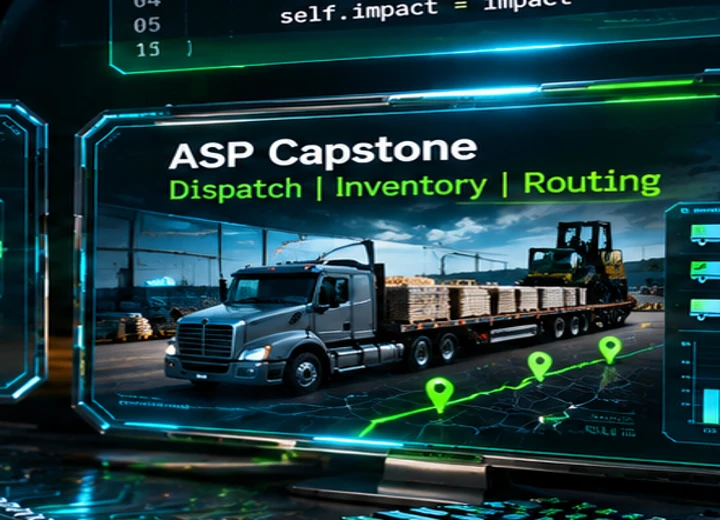
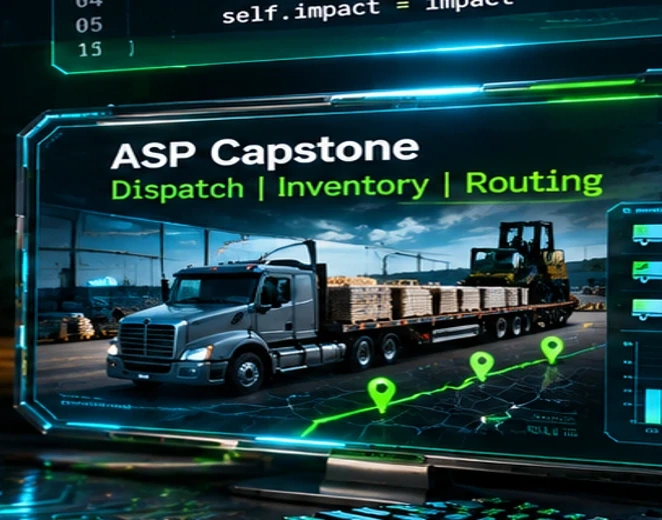
Add files via upload

diff --git a/style.css b/style.css
@@ -185,3 +185,32 @@
 @keyframes aboutTrace{to{width:35%;filter:brightness(1.8)}}
 @media(max-width:800px){.dispatch-truck{width:27%}}
 @media(prefers-reduced-motion:reduce){.dispatch-truck,#about .about-enhanced,.about-visual *{animation:none!important}}
+
+/* V7: visible cinematic project interactions and richer About surfaces */
+#portfolio .project{position:relative;will-change:transform;transform-origin:center center;transition:transform .34s cubic-bezier(.2,.8,.2,1),box-shadow .34s,border-color .34s,filter .34s!important;isolation:isolate}
+#portfolio .project:hover{z-index:10;transform:perspective(950px) translateY(-16px) scale(1.055) rotate(-.6deg);border-color:#a5ff38!important;box-shadow:0 35px 80px #000d,0 0 0 2px #a5ff38b0,0 0 38px #31dfff85!important}
+#portfolio .project:focus-within{z-index:10;outline:2px solid #a5ff38;outline-offset:4px}
+#portfolio .project::after{content:'';position:absolute;inset:0;pointer-events:none;border-radius:14px;background:linear-gradient(120deg,transparent 27%,#6bf6ff12 47%,#a5ff3820 51%,transparent 68%);background-size:250% 100%;animation:projectShimmer 8s linear infinite}
+#portfolio .project-image{isolation:isolate;overflow:hidden!important}
+#portfolio .project-image img{object-fit:contain!important;transform-origin:center;animation:projectImageFloat 12s ease-in-out infinite alternate}
+#portfolio .project:hover .project-image img{animation-play-state:paused;transform:scale(1.045) rotate(-1deg)!important}
+#portfolio .motion-projects .motion-route{display:none!important} /* Remove the abstract blue rectangle/green circles. */
+#portfolio .dispatch-truck{bottom:5px;left:3%;width:29%;max-width:140px;animation:dispatchDriveV7 9s ease-in-out infinite alternate}
+@keyframes dispatchDriveV7{from{transform:translateX(0) translateY(0)}to{transform:translateX(205%) translateY(-3px)}}
+@keyframes projectShimmer{from{background-position:180% 0}to{background-position:-80% 0}}
+#about .about-grid{gap:26px}
+#about .about-enhanced{isolation:isolate;border-width:2px!important;border-radius:18px!important;animation:aboutLiftV7 8s ease-in-out infinite!important;transition:transform .35s,box-shadow .35s,filter .35s!important}
+#about .copy-panel.about-enhanced{background:radial-gradient(circle at 7% 8%,#0d758260,transparent 42%),radial-gradient(circle at 93% 91%,#3a892b46,transparent 40%),linear-gradient(135deg,#062739f0,#06141feb 68%,#12331af0)!important;border-color:#48f3ff!important;box-shadow:inset 5px 0 #31dfff8a,0 0 26px #31dfff3b!important}
+#about .about-side .feature:first-child{background:radial-gradient(circle at 88% 12%,#a5ff3860,transparent 48%),linear-gradient(140deg,#12371bf2,#041a28ed)!important;border-color:#a5ff38!important;box-shadow:inset 5px 0 #a5ff38a6,0 0 26px #a5ff3840!important}
+#about .about-side .feature:last-child{background:radial-gradient(circle at 86% 12%,#31dfff75,transparent 50%),linear-gradient(145deg,#062f43ed,#071d26ed)!important;border-color:#38dfff!important;box-shadow:inset 5px 0 #31dfffaa,0 0 26px #31dfff3c!important}
+#about .about-enhanced::after{content:'';position:absolute;pointer-events:none;inset:0;border-radius:inherit;background:linear-gradient(110deg,transparent 35%,#ffffff0c 49%,#a5ff380c 51%,transparent 65%);background-size:240% 100%;animation:projectShimmer 10s linear infinite;z-index:-1}
+#about .about-enhanced:hover{animation-play-state:paused!important;transform:translateY(-12px) scale(1.02)!important;filter:brightness(1.17)!important;box-shadow:0 22px 58px #000a,0 0 40px #42eeff85!important}
+#about .about-side .feature:first-child h3{color:#b6ff6b;text-shadow:0 0 15px #a5ff3855}
+#about .about-side .feature:last-child h3{color:#69eaff;text-shadow:0 0 15px #31dfff55}
+#about .about-visual{height:59px;border-width:2px;background:linear-gradient(95deg,#0b4351c9,#183c2c9e);box-shadow:inset 0 0 16px #2ceaff22,0 0 13px #31dfff32}
+#about .about-visual-2{background:linear-gradient(95deg,#21481a,#082c3a);border-color:#b5ff6b;box-shadow:0 0 14px #a5ff384a}
+#about .about-visual-3{background:linear-gradient(95deg,#083c57,#0b3530);border-color:#31dfff;box-shadow:0 0 14px #31dfff55}
+@keyframes aboutLiftV7{0%,100%{translate:0 0}50%{translate:0 -9px}}
+#about .about-side .feature:last-child{animation-delay:-4s!important}
+@media(hover:none){#portfolio .project:hover{transform:none!important}#about .about-enhanced:hover{transform:none!important}}
+@media(prefers-reduced-motion:reduce){#portfolio .project::after,#about .about-enhanced::after,#about .about-enhanced{animation:none!important}}

diff --git a/script.js b/script.js
@@ -52,7 +52,7 @@ const lines=['> initializing portfolio...','> loading skills: Python, SQL, FastA
 function terminal(){const el=$('#terminal');if(!el)return;el.textContent=lines.slice(0,li+1).join('\n');if(activeSection==='home')tone(390+li*60,.085,.025,'triangle');li=(li+1)%lines.length;if(li===0)el.textContent=lines.join('\n');if(!reduce)setTimeout(terminal,2400)}terminal();
 let busy=false;function updateScroll(){if(busy)return;busy=true;requestAnimationFrame(()=>{const max=document.documentElement.scrollHeight-innerHeight;$('#progress').style.width=(max>0?scrollY/max*100:0)+'%';const sections=$$('main section[id]');let current='home';sections.forEach(s=>{if(s.getBoundingClientRect().top<innerHeight*.45)current=s.id});$$('nav a').forEach(a=>a.classList.toggle('active',a.getAttribute('href')==='#'+current));setActiveSection(current);busy=false})}addEventListener('scroll',updateScroll,{passive:true});updateScroll();
 // Tilt only small panels; never move section artwork or clickable links away from the pointer.
-if(!reduce&&matchMedia('(pointer:fine)').matches){$$('[data-tilt],.project').forEach(el=>{el.addEventListener('pointermove',e=>{const r=el.getBoundingClientRect(),x=(e.clientX-r.left)/r.width-.5,y=(e.clientY-r.top)/r.height-.5;el.style.transform=`perspective(900px) rotateY(${x*5}deg) rotateX(${-y*5}deg)`});el.addEventListener('pointerleave',()=>{el.style.transform=''})})}
+if(!reduce&&matchMedia('(pointer:fine)').matches){$$('[data-tilt],.project').forEach(el=>{el.addEventListener('pointermove',e=>{const r=el.getBoundingClientRect(),x=(e.clientX-r.left)/r.width-.5,y=(e.clientY-r.top)/r.height-.5;el.style.transform=`perspective(950px) translateY(-16px) scale(1.055) rotateY(${x*10}deg) rotateX(${-y*10}deg)`});el.addEventListener('pointerleave',()=>{el.style.transform=''})})}
 
 // Brief tactile cues on interaction, never continuous sounds on other sections.
 let lastInteraction=0;
